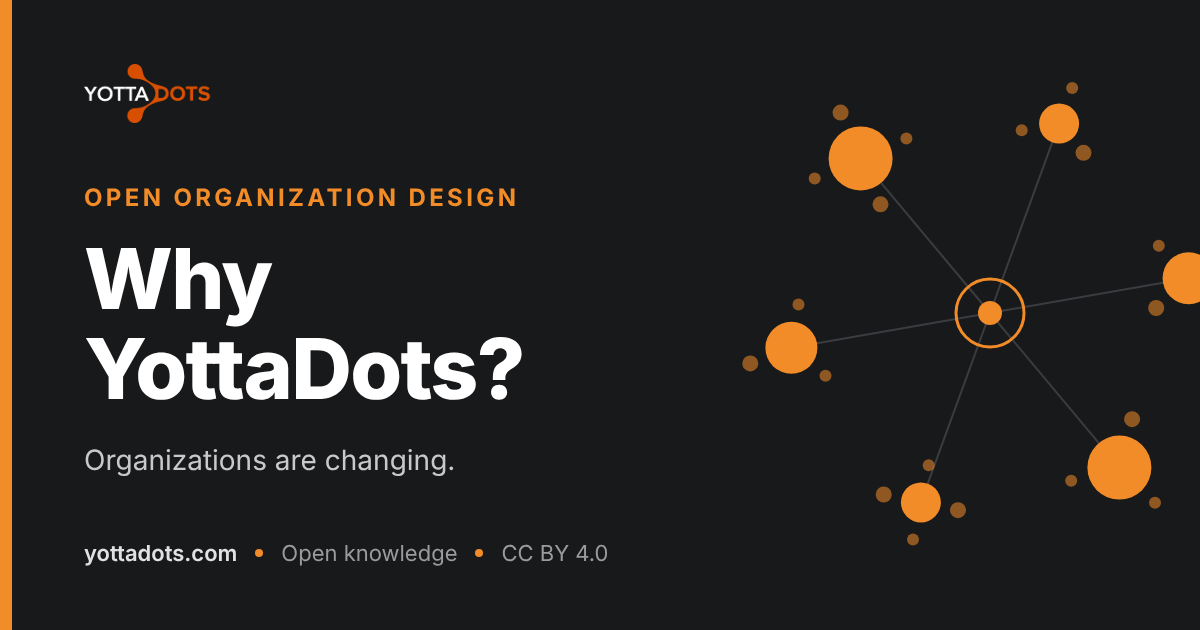
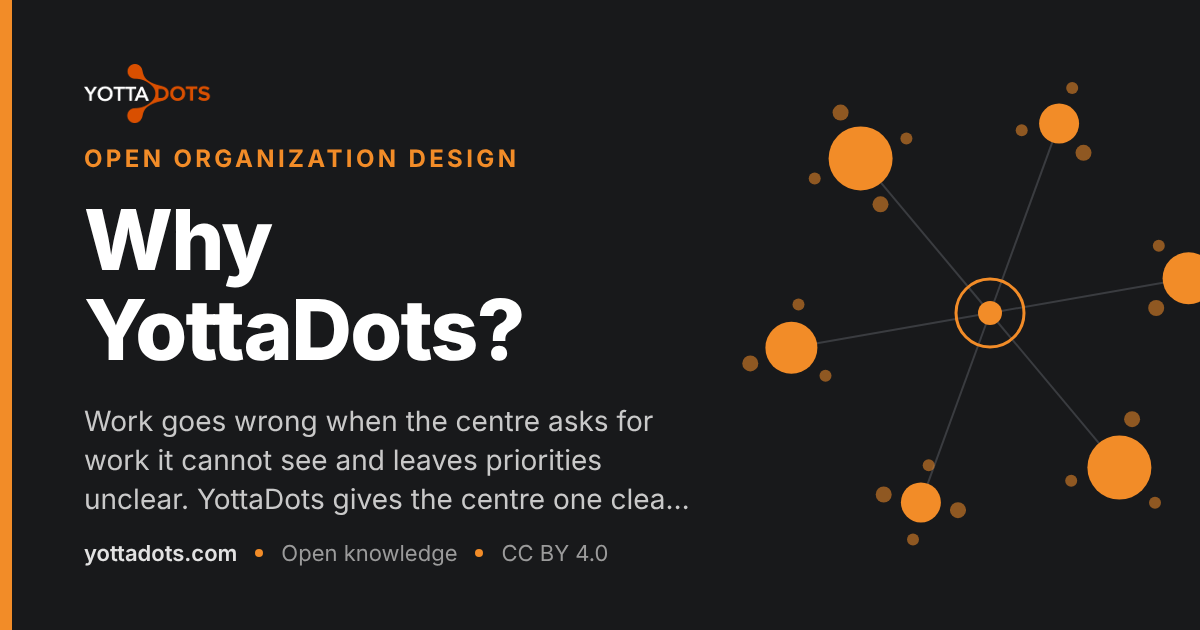
Why YottaDots: problem, response, fit and evidence
Rewrites the Why page around the founder's two observations (the centre
asks for work it cannot see; priorities blur the higher you go), with
published research on priority clarity, the four rules as the response,
a why-now hypothesis on AI, a fit/no-fit list and an evidence statement.
Adds a visual summary. Uses 'open method' instead of 'open framework' on
the homepage, README and site description, and replaces the homepage's
'space in between' text.

Claude-Session: https://claude.ai/code/session_01WDc2s6KT2reEYBWP1nXUw5

Changed region(s): [[0.0617, 0.3016, 0.555, 0.754], [0.0617, 0.7841, 0.555, 0.8143], [0.0617, 0.2111, 0.4317, 0.2714]]

diff --git a/src/pages/index.js b/src/pages/index.js
@@ -8,7 +8,7 @@ export default function Home() {
   return (
     <Layout
       title="Federate your organization. Amplify it with AI."
-      description="YottaDots is an open framework for federated organizations and AI-enabled work."
+      description="YottaDots is an open method for federated organizations and AI-enabled work."
     >
       <main>
         <section className={styles.hero}>
@@ -23,7 +23,7 @@ export default function Home() {
             </h1>
 
             <p className={styles.heroText}>
-              YottaDots is an open framework for organizations that want
+              YottaDots is an open method for organizations that want
               autonomy without fragmentation — and AI without losing
               human accountability.
             </p>
@@ -60,13 +60,14 @@ export default function Home() {
           </h2>
 
           <p>
-            Hierarchies struggle with speed. Full decentralization
-            struggles with alignment. AI changes the economics of
-            coordination altogether.
+            Good work starts with clear priorities. Yet the people who
+            set them often cannot see the work, and the higher you go,
+            the less clear the priorities become.
           </p>
 
           <p>
-            YottaDots explores the space in between.
+            YottaDots gives the centre one clear job, the what, and
+            leaves the how to the value streams who know the work.
           </p>
         </section>
 

diff --git a/docusaurus.config.js b/docusaurus.config.js
@@ -57,7 +57,7 @@ const config = {
       {
         name: 'description',
         content:
-          'YottaDots is an open framework for federated organizations and AI-enabled work.',
+          'YottaDots is an open method for federated organizations and AI-enabled work.',
       },
     ],
 

diff --git a/docs/why/index.md b/docs/why/index.md
@@ -2,39 +2,134 @@
 id: index
 title: Why YottaDots?
 sidebar_label: Why YottaDots?
+description: Work goes wrong when the centre asks for work it cannot see and leaves priorities unclear. YottaDots gives the centre one clear job, the what, and leaves the how to the value streams.
 image: /img/social/why.png
 ---
 
 # Why YottaDots?
 
-Organizations are changing.
+![Visual summary. On the left, the problem: the centre asks for work it cannot see, and priorities become less clear the higher you go. The result is overload, everything at once, and teams guessing what matters. On the right, the YottaDots response: the centre does one job well, setting clear, ranked priorities, the what. Value streams who know the work say what it takes and can object, and they decide the how. Below: clear priorities from the top, realistic plans from the work.](/img/diagrams/why-summary.svg)
 
-Traditional hierarchies struggle with speed.
+## In short
 
-Fully decentralized organizations struggle with alignment.
+Good work starts with clear priorities. In many organizations, the people who
+set priorities cannot see the work, and the higher you go, the less clear the
+priorities become. YottaDots gives the centre one clear job, deciding **what**
+matters most, and leaves **how** to the value streams who know the work. The
+value streams get a formal voice when goals are set, so the centre hears what
+the work really takes.
 
-Framework-heavy transformations can create more structure than value.
+## The problem
 
-And AI is changing how work, decisions and responsibilities are distributed.
+### The centre asks for work it cannot see
 
-YottaDots explores another way.
+Requests, targets and deadlines often come from people who do not see the
+work: how much effort it takes, how long it takes, or what else is already
+waiting. The result is familiar:
 
-## Federated by design
+- deadlines that were never realistic;
+- too much work started at the same time;
+- teams that say yes on paper and fall behind in practice;
+- trust that erodes on both sides.
 
-YottaDots combines:
+This is not a matter of bad intentions. Distance from the work makes it hard
+to judge. People also tend to underestimate how long work will take, a
+well-known effect called the planning fallacy. The further away the
+decision-maker, the bigger the gap.
 
-- local autonomy;
-- shared purpose;
-- clear decision rights;
-- lightweight guardrails;
-- reusable organizational patterns;
-- AI as a co-worker.
+### Priorities blur the higher you go
 
-The goal is not to create another framework.
+All good work starts with good prioritization. Yet clear priorities are
+rarer than most leaders think. In research by Donald Sull, Rebecca Homkes and
+Charles Sull among thousands of managers in hundreds of companies, only about
+a third of senior managers could name their company's top three priorities.
+Only about half of middle managers could name even one of the top five.
+Their explanation: leaders' attention is spread over too many things that do
+not need to be in their remit.
 
-The goal is to help organizations become:
+When the top does not choose, everything becomes important. The choices are
+pushed down to teams that lack the overview, or they surface as escalations
+and conflicts between departments.
 
-**smaller in coordination, stronger in capability and faster in adaptation.**
+### The two problems feed each other
+
+A centre that is busy with the how (approving, checking, steering details)
+has less attention for the what. And a centre that does not set clear
+priorities fills the gap with more requests. Both problems point to the same
+fix: a centre that does its own job well, and leaves the rest.
+
+## What YottaDots does differently
+
+YottaDots divides the work in two, with four rules:
+
+| Rule | What it means | Which problem it solves |
+|---|---|---|
+| 1. The centre decides the what | Mission, strategy and clear, ranked goals (OKRs and KPIs). That is the centre's core job. | Blurred priorities |
+| 2. Value streams help shape the what | The centre proposes goals; value streams can object, for example "this does not fit our capacity"; the centre must answer. | Work the centre cannot see |
+| 3. Everything not named as central stays with the value streams | The centre has to name what it decides, and cannot quietly take over the how. | A centre busy with the how |
+| 4. Value streams may opt out of shared services, unless agreed as a guardrail | Shared services have to earn their users. | Central services that set their own priorities |
+
+What YottaDots deliberately does **not** do:
+
+- **It does not prescribe a method.** Value streams choose Scrum, Kanban,
+  projects, PRINCE2 or something else.
+- **It does not prescribe a constitution,** a fixed meeting structure or a
+  new set of roles.
+
+Read more in [The YottaDots Method](../method/index.md),
+[Principles](../method/principles.md) and [Patterns](../patterns/index.md).
+
+## Why now
+
+AI is changing what coordination costs. Much of the work between the centre
+and the value streams is collecting and passing on information: status
+reports, effort estimates, summaries, the impact of a new request. AI can do
+part of that faster and cheaper. That can help the centre see the work it
+asks for, and it means fewer layers are needed just to coordinate.
+
+This is a **hypothesis**, not a proven fact. See
+[Augment](../method/principles/augment.md).
+
+## For whom
+
+YottaDots is written first for **leaders** who decide how their organization
+works: boards, management teams and holding companies. Coaches, consultants
+and change leads will find the practical side in the
+[Patterns](../patterns/index.md).
+
+It fits when:
+
+- the organization has several value streams, products or business units;
+- leaders want clearer priorities and fewer escalations;
+- teams already work well locally, but direction and capacity do not match;
+- the organization wants to use AI without losing human accountability.
+
+It does **not** fit, or not yet, when:
+
+- the organization is in acute crisis and needs short, central command;
+- the top is not willing to name and limit what it decides;
+- the organization is small enough for one team to coordinate directly;
+- the real problem is elsewhere, for example a missing strategy, or a lack
+  of skills or funding.
+
+## What we do not know yet
+
+YottaDots is young. The problems described above are widely recognised, and
+the research on unclear priorities is published. That the four rules solve
+them better than other approaches has not yet been shown. We will say so
+until real cases show it, and we will publish what does not work as well as
+what does.
+
+## Sources
+
+- Donald Sull, Rebecca Homkes and Charles Sull, "Why Strategy Execution
+  Unravels, and What to Do About It", *Harvard Business Review*, March 2015.
+- Fortune, [Most executives can't name their company's top priorities](https://fortune.com/2015/12/08/company-priorities-communication-strategy),
+  8 December 2015.
+- London Business School,
+  [Why senior managers can't name their firms' top priorities](https://www.london.edu/news-and-events/news/two-thirds-of-senior-managers-cant-name-their-firms-top-priorities).
+- Daniel Kahneman and Amos Tversky, "Intuitive prediction: biases and
+  corrective procedures", 1979: the origin of the planning fallacy.
 
 ---
 

diff --git a/README.md b/README.md
@@ -2,7 +2,7 @@
 
 **Federate your organization. Amplify it with AI.**
 
-YottaDots is an open framework for federated organizations and AI-enabled work.
+YottaDots is an open method for federated organizations and AI-enabled work.
 
 ## Website
 
